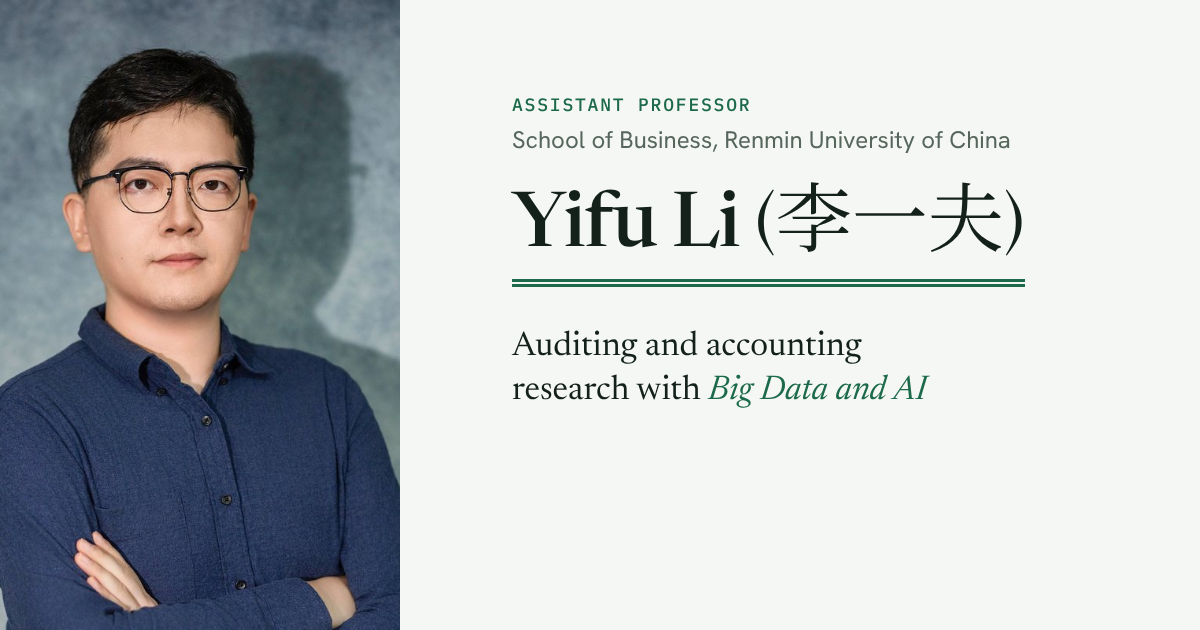
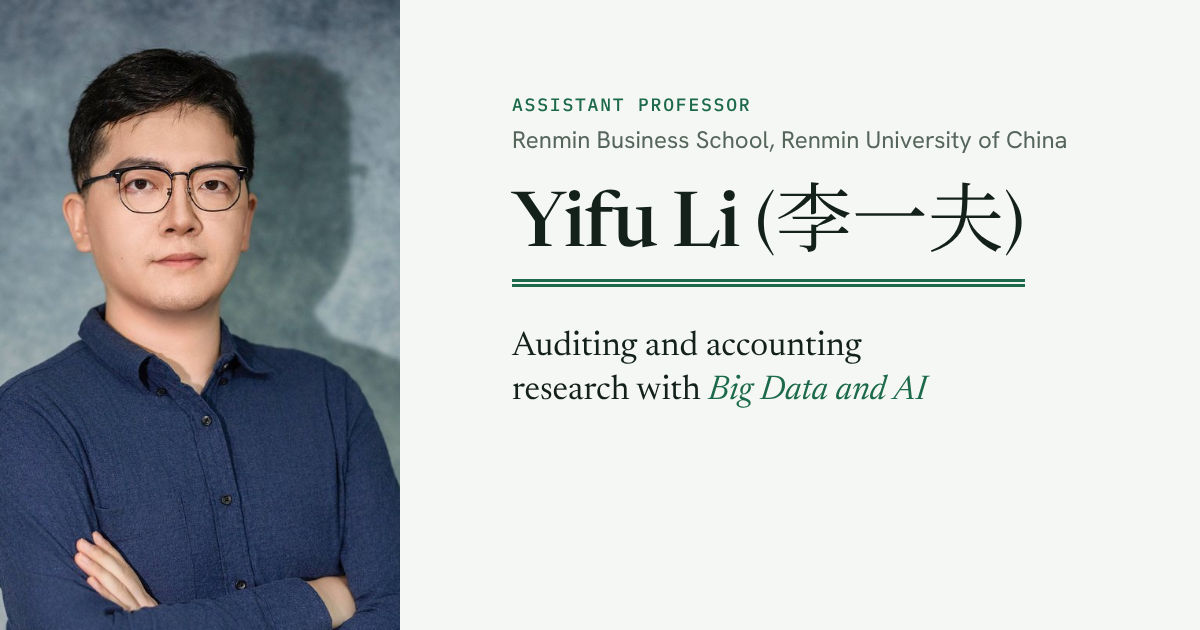
Add files via upload

Changed region(s): [[0.4317, 0.2111, 0.8942, 0.2413]]

diff --git a/index.html b/index.html
@@ -10,7 +10,7 @@
 <meta name="theme-color" content="#F4F7F4">
 <meta property="og:type" content="website">
 <meta property="og:title" content="Yifu Li (李一夫)">
-<meta property="og:description" content="Assistant Professor, School of Business, Renmin University of China. Research in auditing and accounting with Big Data and AI.">
+<meta property="og:description" content="Assistant Professor, Renmin Business School, Renmin University of China. Research in auditing and accounting with Big Data and AI.">
 <meta property="og:image" content="og-image.png">
 <meta property="og:image:width" content="1200">
 <meta property="og:image:height" content="630">
@@ -24,29 +24,7 @@
 @font-face{font-family:"Noto Serif SC";src:url(fonts/noto-serif-sc-name.woff) format("woff");font-weight:400 500;font-style:normal;font-display:swap}
 </style>
 <title>Yifu Li (李一夫)</title>
-  
-<!-- 网站名称 -->
-<meta property="og:site_name" content="Yifu Li">
-
-<!-- 网站主页地址 -->
-<meta property="og:url"
-      content="https://liyifu0302.github.io/">
-
-<!-- Google 推荐的规范网址 -->
-<link rel="canonical"
-      href="https://liyifu0302.github.io/">
-
-<!-- 告诉 Google 网站的正式名称 -->
-<script type="application/ld+json">
-{
-  "@context": "https://schema.org",
-  "@type": "WebSite",
-  "name": "Yifu Li",
-  "alternateName": "Yifu Li (李一夫)",
-  "url": "https://liyifu0302.github.io/"
-}
-</script>
-<meta name="description" content="Yifu Li, Assistant Professor at the School of Business, Renmin University of China, Beijing, China. Research in auditing, corporate disclosure and natural language processing.">
+<meta name="description" content="Yifu Li, Assistant Professor at Renmin Business School, Renmin University of China, Beijing, China. Research in auditing and accounting with Big Data and AI.">
 <style>
 /* Layout: a ledger sheet. A fixed margin column on the left (portrait, contact, then account-head labels) and one ruled vertical line down the page; entries run to its right. The name is closed with an accountant's double rule. */
 :root{
@@ -315,10 +293,10 @@ a.status:hover{ border-color:var(--accent); color:var(--accent); }
     </figure>
 
     <div class="intro">
-      <p class="eyebrow"><span>Assistant Professor</span><span class="org">School of Business, Renmin University of China</span></p>
+      <p class="eyebrow"><span>Assistant Professor</span><span class="org">Renmin Business School, Renmin University of China</span></p>
       <h1><span class="total">Yifu Li <span class="zh">(李一夫)</span></span></h1>
       <p class="lead">My research uses <em>Big Data and AI</em> methods to study auditing and accounting.</p>
-      <p class="bio">I joined the School of Business at Renmin University of China in 2023, after completing my Ph.D. in Accounting at City University of Hong Kong. Before that, I received an M.Sc. in Applied Economics (Finance) from Harbin Institute of Technology, and a B.Eng. in Measurement and Control Technology and Instrument from Harbin Institute of Technology, Weihai.</p>
+      <p class="bio">I joined Renmin Business School, Renmin University of China, in 2023, after completing my Ph.D. in Accounting at City University of Hong Kong. Before that, I received an M.Sc. in Applied Economics (Finance) from Harbin Institute of Technology, and a B.Eng. in Measurement and Control Technology and Instrument from Harbin Institute of Technology, Weihai.</p>
       <ul class="tags" aria-label="Research interests">
         <li>Auditing</li>
         <li>Corporate Disclosure</li>
@@ -337,7 +315,7 @@ a.status:hover{ border-color:var(--accent); color:var(--accent); }
       </div>
       <div>
         <span class="label">Address</span>
-        <p>School of Business<br>Renmin University of China<br>Beijing, China</p>
+        <p>Renmin Business School<br>Renmin University of China<br>Beijing, China</p>
       </div>
     </div>
   </header>
@@ -367,7 +345,7 @@ a.status:hover{ border-color:var(--accent); color:var(--accent); }
       <p>Courses taught</p>
     </div>
     <div class="entry-body">
-      <h3 class="sub">Renmin University of China · Beijing, China</h3>
+      <h3 class="sub">Renmin Business School, Renmin University of China · Beijing, China</h3>
       <ul class="ledger">
         <li class="row split"><h4>Financial Analysis using Big Data</h4><span class="status">Undergraduate</span></li>
         <li class="row split"><h4>Machine Learning and Natural Language Processing</h4><span class="status">Undergraduate</span></li>
@@ -393,7 +371,7 @@ a.status:hover{ border-color:var(--accent); color:var(--accent); }
           <span class="yr">2023–now</span>
           <div>
             <h4>Assistant Professor</h4>
-            <p class="who">School of Business, Renmin University of China · Beijing, China</p>
+            <p class="who">Renmin Business School, Renmin University of China · Beijing, China</p>
           </div>
         </li>
         <li class="row two">
